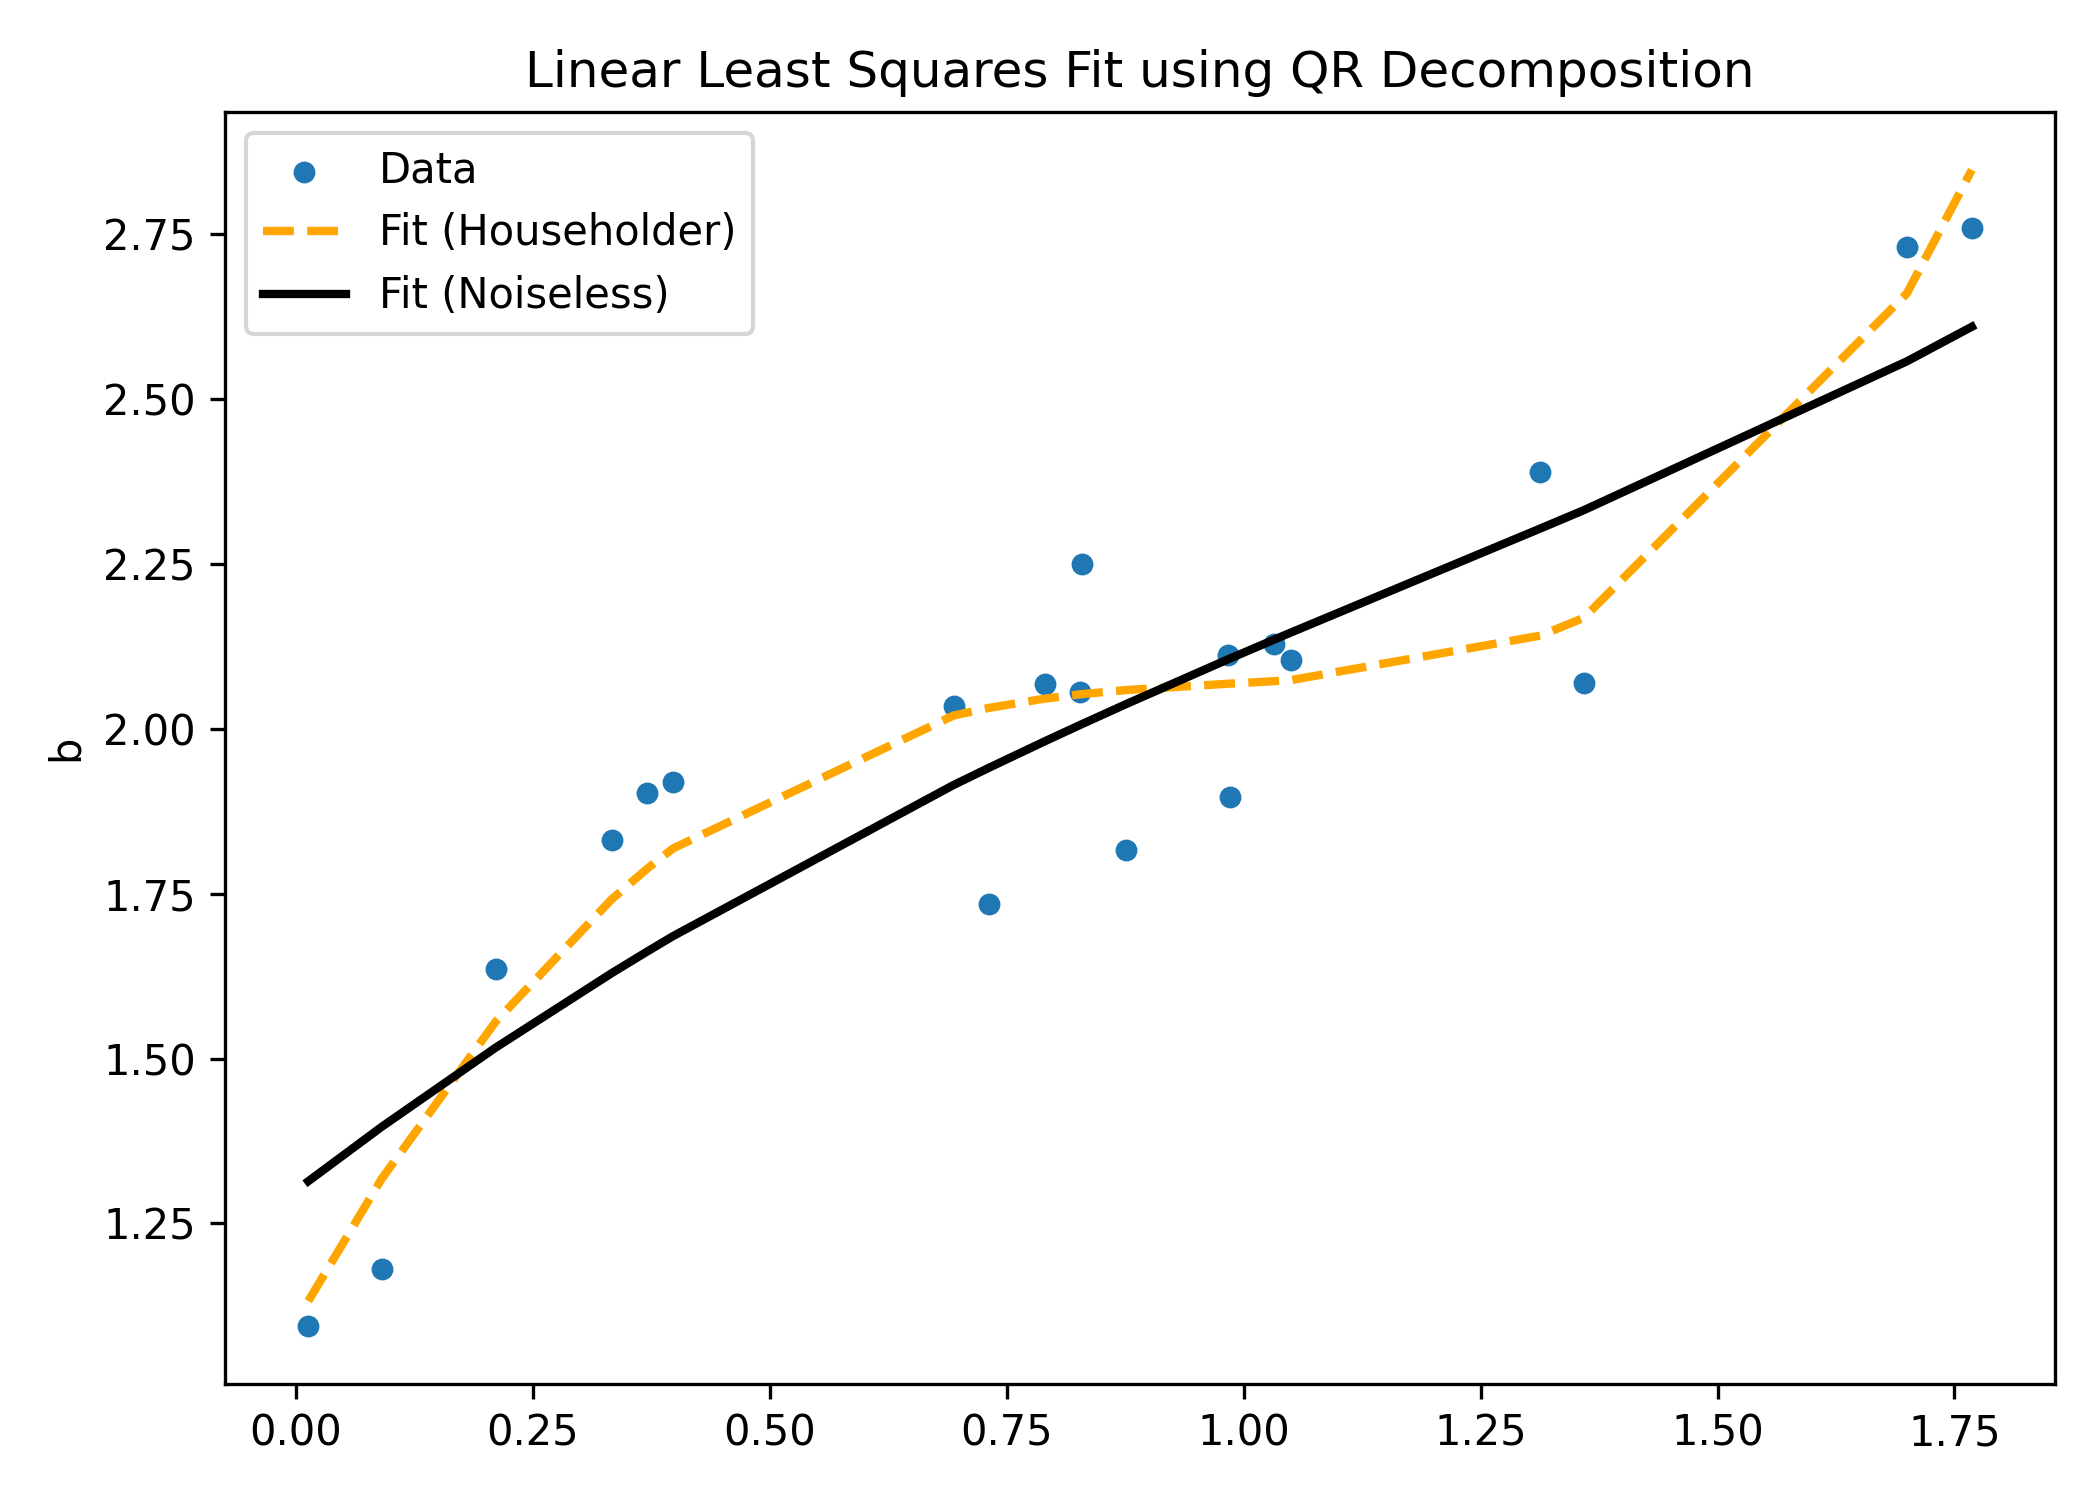
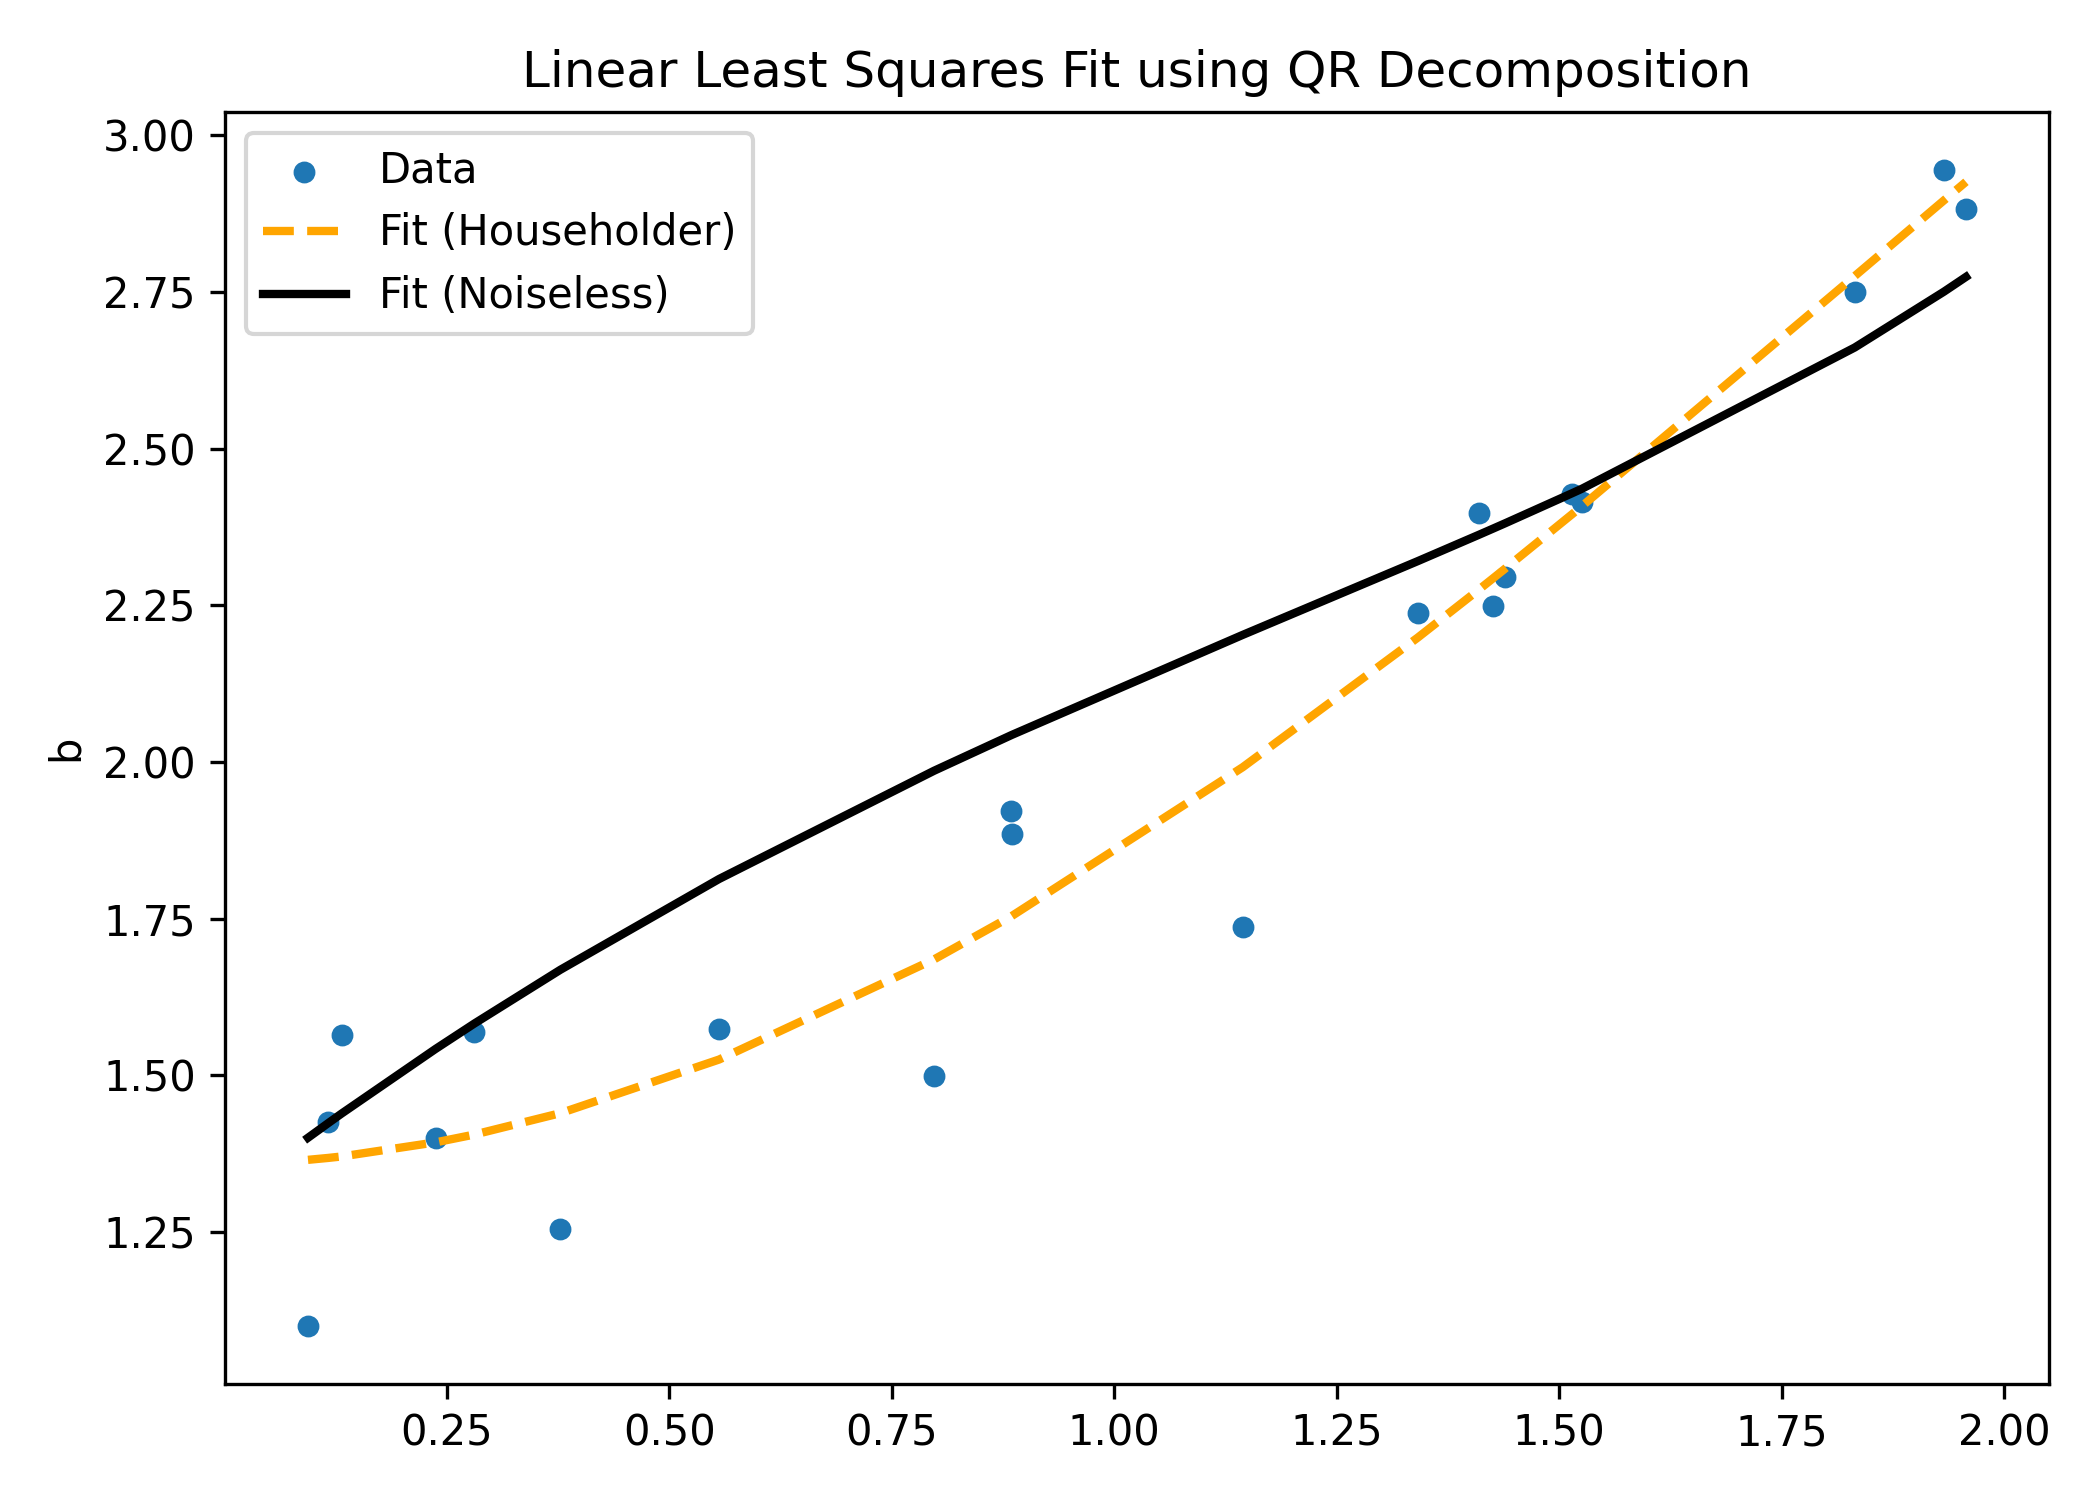
plots

diff --git a/HW3/P3.py b/HW3/P3.py
@@ -65,7 +65,7 @@ plt.figure(figsize=(7, 5))
 plt.scatter(t_val, b_val, s=18, label="Data") #noisy data
 plt.plot(t_plot, y_plot, linewidth=2, linestyle="--", color='orange', label="Fit (Householder)") 
 
-b_real = 1 + 0.8*t_plot - 0.5*t_plot**2 + 0.3*np.exp(t_plot) #noiseless data
+b_real = 1 + 0.8*t_plot - 0.5*t_plot**2 + 0.3*np.exp(t_plot) #noiseless data SUSPICIOUS!!!!!!!!
 plt.plot(t_plot, b_real, linewidth=2, color='black', label='Fit (Noiseless)')
 plt.ylabel("b")
 plt.title("Linear Least Squares Fit using QR Decomposition")
@@ -115,28 +115,36 @@ def D(x, eps):
 
 
 # Nonlinear ODE, set to zero, to be minimized:
-def G_minimizer(x_0, eps_0):
+def G_minimizer(x_0, eps):
 
     iter_max = 1000 #max allowed iterations
     x = np.empty((iter_max, 4)) #initializing x iteration array
-    x[0,:] = x_0 
+    x[0,:] = x_0 #initial guess
+    eps = eps
 
-    for k in range(0,10): #order of magnitudes smaller 
-        eps = eps_0/10**k
+    for i in range(1,iter_max):
+        Q,R = QR_Householder(A_out.T @ D(x[i-1], eps) @ A_out) #takes iteration equation, QR decomp
+        x[i] = back_sub(R,  Q.T @ A_out.T @ D(x[i-1], eps) @ b_out) #solves for x_i
+        G_norm = np.linalg.norm(A_out.T @ D(x[i], eps) @ (A_out @ x[i] - b_out), 2) #2 NORM??? 1 NORM???
+        iter = i #documents iteration
+        if G_norm < 1E-6: #threshold to stop loop
+            break
 
-        for i in range(1,iter_max):
-            Q,R = QR_Householder(A_out.T @ D(x[i-1], eps) @ A_out) #takes iteration equation, QR decomp
-            x[i] = back_sub(R,  Q.T @ A_out.T @ D(x[i-1], eps) @ b_out) #solves for x_i
-            G_norm = np.linalg.norm(A_out.T @ D(x[i], eps) @ (A_out @ x[i] - b_out), 2) #2 NORM??? 1 NORM???
-            iter = i #documents iteration
-            if G_norm < 1E-6: #threshold to stop loop
-                print('The required iterations to converge G(x) below a tolerance of', 
-                eps, 'is', iter)
-                break
-
-    return 
+    return x[i] #returns final x after iterations
 
 
-G_minimizer(([0.5,0.5,0.5,0.5]), 0.05) #initial guess input for x parameters
+x_L1 = G_minimizer(([0.5,0.5,0.5,0.5]), 0.05) #initial guess input for x parameters, eps
     
-    
+
+
+#----------- Plotting Outlier with L1-Norm Solution -----------#
+plt.figure(figsize=(7, 5))
+plt.title("Linear Least Squares Fit with Outlier using 1-Norm Minimization")
+plt.scatter(t_out, b_out, s=18, label="Data with Outlier")
+plt.plot(t_plot_o, y_plot_o, linewidth=2, linestyle="--", color='orange', label="Fit (Householder with Outlier)")
+plt.plot(t_plot_o, A_out[idxo] @ x_L1, linewidth=2, color='green', label='Fit (1-Norm Minimization)')
+plt.xlabel("t")
+plt.ylabel("b")
+plt.legend()
+plt.tight_layout()
+plt.savefig('LLS_L1.png', dpi=300)
